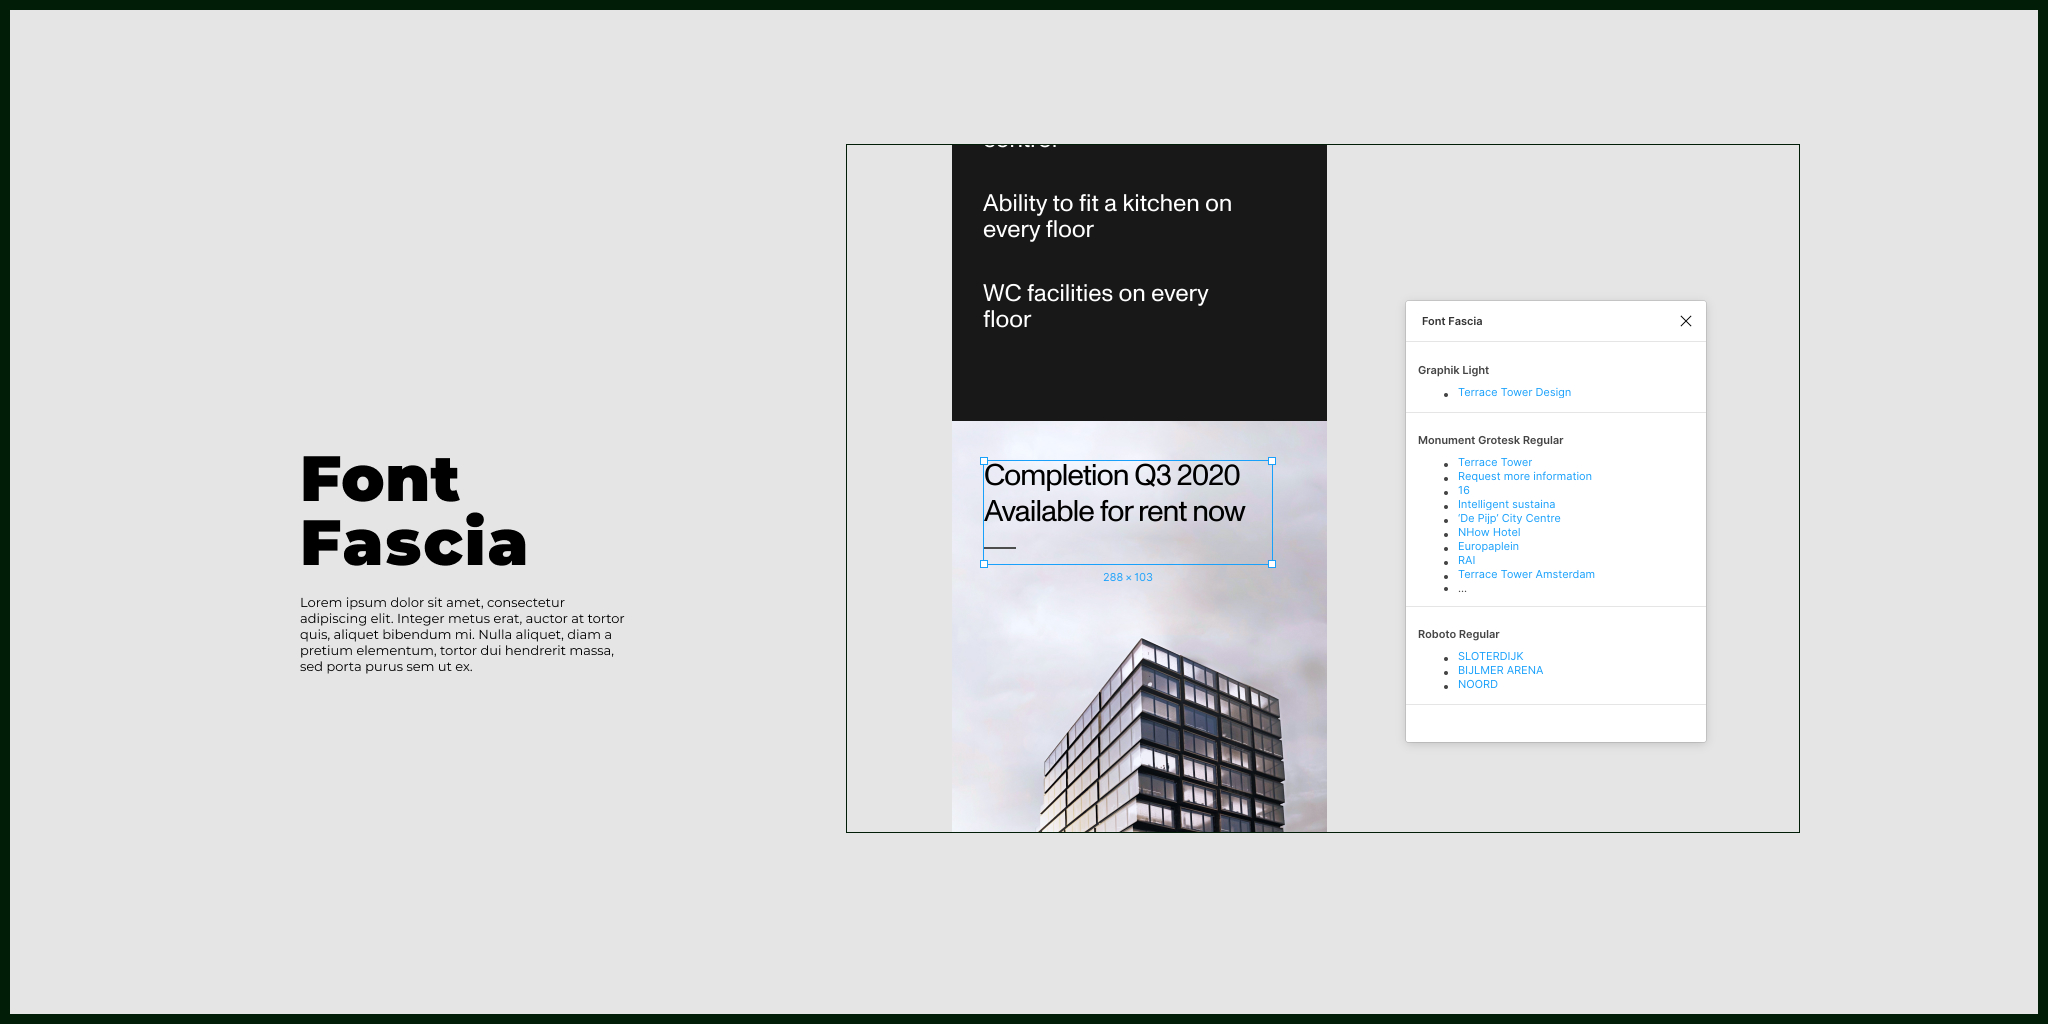
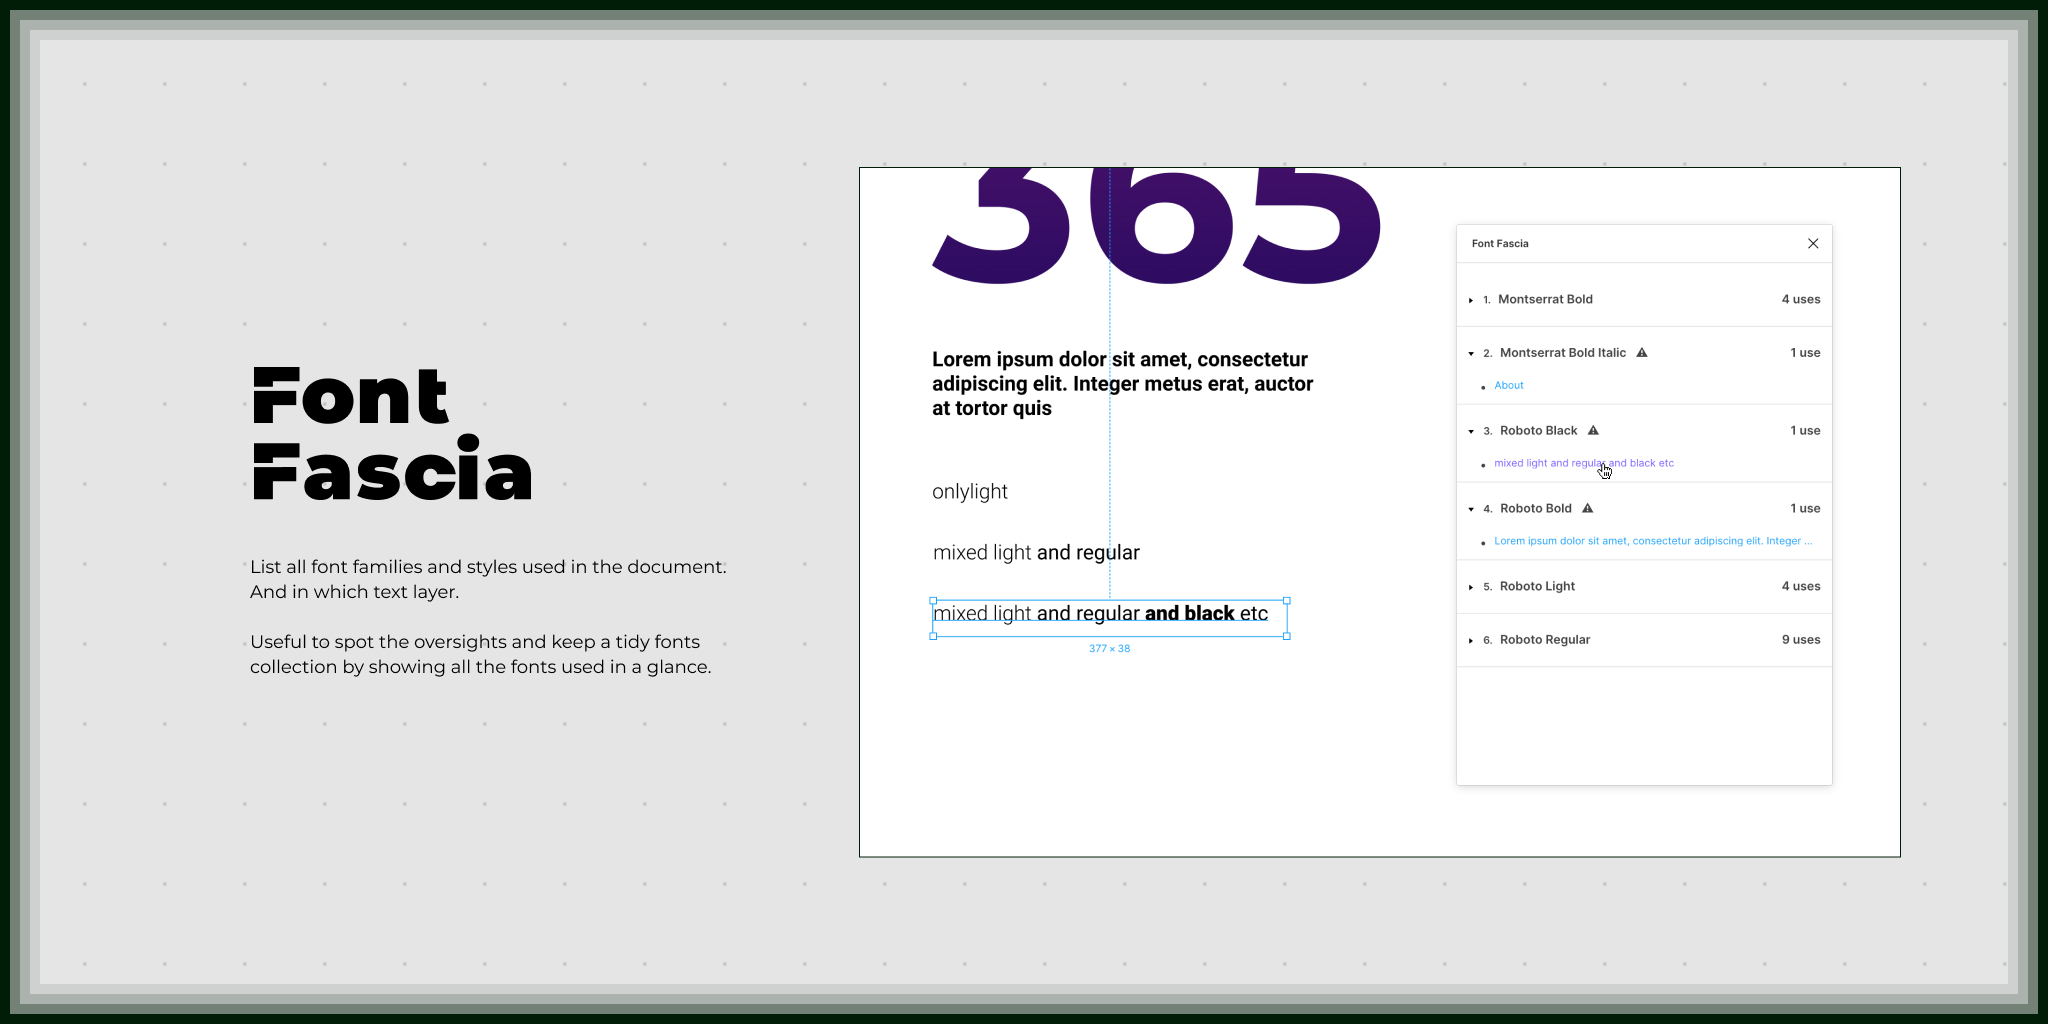
1.0.4

diff --git a/fontFascia.ui.js b/fontFascia.ui.js
@@ -14,12 +14,25 @@ onmessage = event => {
     let count = 1
 
     Object.keys(message.content).map(key => {
+      const refLength = message.content[key].references.length
+
       let listItem = document.createElement('div')
       listItem.className = 'fontItem'
 
       let name = document.createElement('div')
       name.className = 'fontLabel'
       //   name.style.fontFamily = message.content[key].fontFamily
+
+      name.addEventListener(`click`, event => {
+        event.preventDefault()
+        listItem.classList.toggle(`active`)
+      })
+
+      // icon
+      var nameIcon = document.createElement('span')
+      nameIcon.className = `icon`
+      nameIcon.innerHTML = `<svg class="svg" width="6" height="6" viewBox="0 0 6 6" xmlns="http://www.w3.org/2000/svg"><path d="M3 5l3-4H0l3 4z" fill-rule="nonzero" fill-opacity="1" fill="#000" stroke="none"></path></svg>`
+      name.append(nameIcon)
 
       // counter
       let counter = document.createElement(`span`)
@@ -35,23 +48,29 @@ onmessage = event => {
       // warning
       let warning = document.createElement('span')
       warning.className = `warning`
-      if (message.content[key].references.length < 2) {
+      if (refLength < 2) {
         warning.title = `Only one use`
         warning.innerText = `⚠`
       }
       name.append(warning)
 
+      let refNumber = document.createElement('span')
+      refNumber.className = `refNumber`
+      refNumber.innerText = `${refLength} use${refLength > 1 ? `s` : ``}`
+      name.append(refNumber)
+
       // nodes
       const refList = document.createElement('ul')
+      refList.className = `refList`
 
       message.content[key].references.map((reference, index) => {
         let refItem = document.createElement('li')
 
-        if (index === 9) {
+        if (index === 30) {
           refItem.append('…')
           refList.append(refItem)
         }
-        if (index > 8) return
+        if (index > 29) return
 
         const { nodeName } = reference
         let link = document.createElement('a')

diff --git a/fontFascia.html b/fontFascia.html
@@ -82,28 +82,62 @@
 
       /* Plugin Styles */
 
-      .warning {
-        display: inline-block;
-        margin-left: 10px;
-      }
-
       .fontList {
         padding: 10px 0 50px;
       }
 
       .fontItem {
-        padding: 12px 12px;
         box-shadow: 0 1px 0 0 rgba(0, 0, 0, 0.1);
       }
 
+      .fontItem.active {
+        padding-bottom: 12px;
+      }
+
       .fontLabel {
+        display: flex;
+        justify-content: stretch;
+        align-items: baseline;
+        padding: 12px 12px;
         font-size: 13px;
         font-weight: bold;
         line-height: 32px;
+        cursor: pointer;
+      }
+
+      .icon {
+        display: inline-block;
+        margin-right: 10px;
+        transform: rotate(-90deg);
+      }
+
+      .fontItem.active .icon {
+        transform: rotate(0deg);
       }
 
       .counter {
         font-size: 11px;
+        margin-right: 8px;
+      }
+
+      .warning {
+        display: inline-block;
+        margin-left: 10px;
+      }
+
+      .refNumber {
+        display: inline-block;
+        margin-left: auto;
+      }
+
+      .refList {
+        padding-right: 12px;
+        height: 0;
+        overflow: hidden;
+      }
+
+      .fontItem.active .refList {
+        height: auto;
       }
 
       .nodeLink {

diff --git a/fontFascia.main.js b/fontFascia.main.js
@@ -81,13 +81,13 @@ function saveFontInfos(node, pageNode) {
     fontInfos[id] = fontInfo
   } else {
     // add uniq reference
-    if (
-      fontInfos[id].references.filter(
-        ref => ref.nodeName === reference.nodeName
-      ).length === 0
-    ) {
+    // if (
+    //   fontInfos[id].references.filter(
+    //     ref => ref.nodeName === reference.nodeName
+    //   ).length === 0
+    // ) {
       fontInfos[id].references = [...fontInfos[id].references, reference]
-    }
+    // }
   }
 }
 
@@ -96,6 +96,7 @@ function initSearch() {
     pageNode
       .findAll(node => node.type === `TEXT`)
       .map(node => {
+        console.log('node: ', node)
         if (node.fontName === figma.mixed) {
           const fontInfosMixed = getFontInfosFromMixed(node)
           fontInfosMixed.forEach(node => saveFontInfos(node, pageNode))

diff --git a/README.md b/README.md
@@ -1,3 +1,18 @@
 # Font Fascia
 
-Version: 1.0.2
+Version: 1.0.4
+
+Figma plugin
+
+https://www.figma.com/c/plugin/746097413727734148/Font-Fascia
+
+Author: [thenew](http://thenew.fr/)
+
+## Description
+
+List all font families and styles used in the document. And in which text layer.
+Useful to spot the oversights and keep a tidy fonts collection by showing all the fonts used in a glance.
+
+## Issues
+
+- Get `font-weight` value, not available in Figma API
